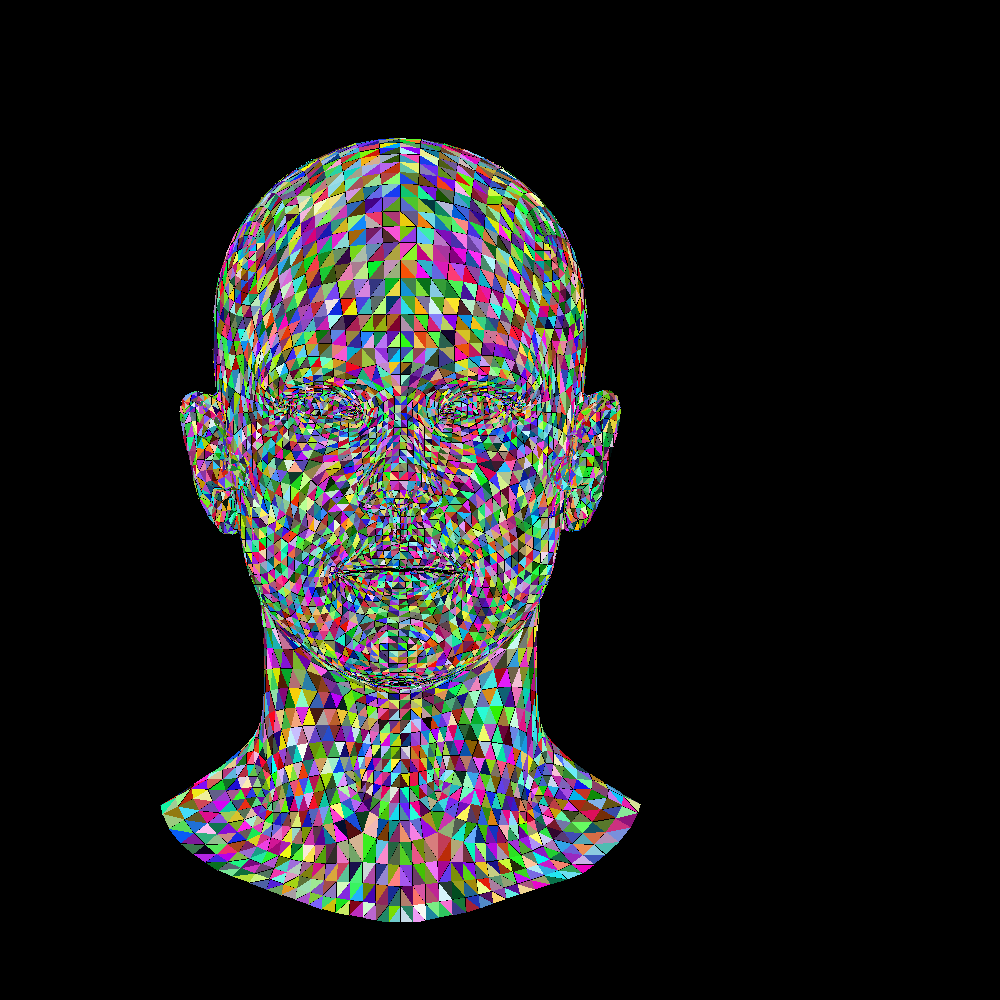
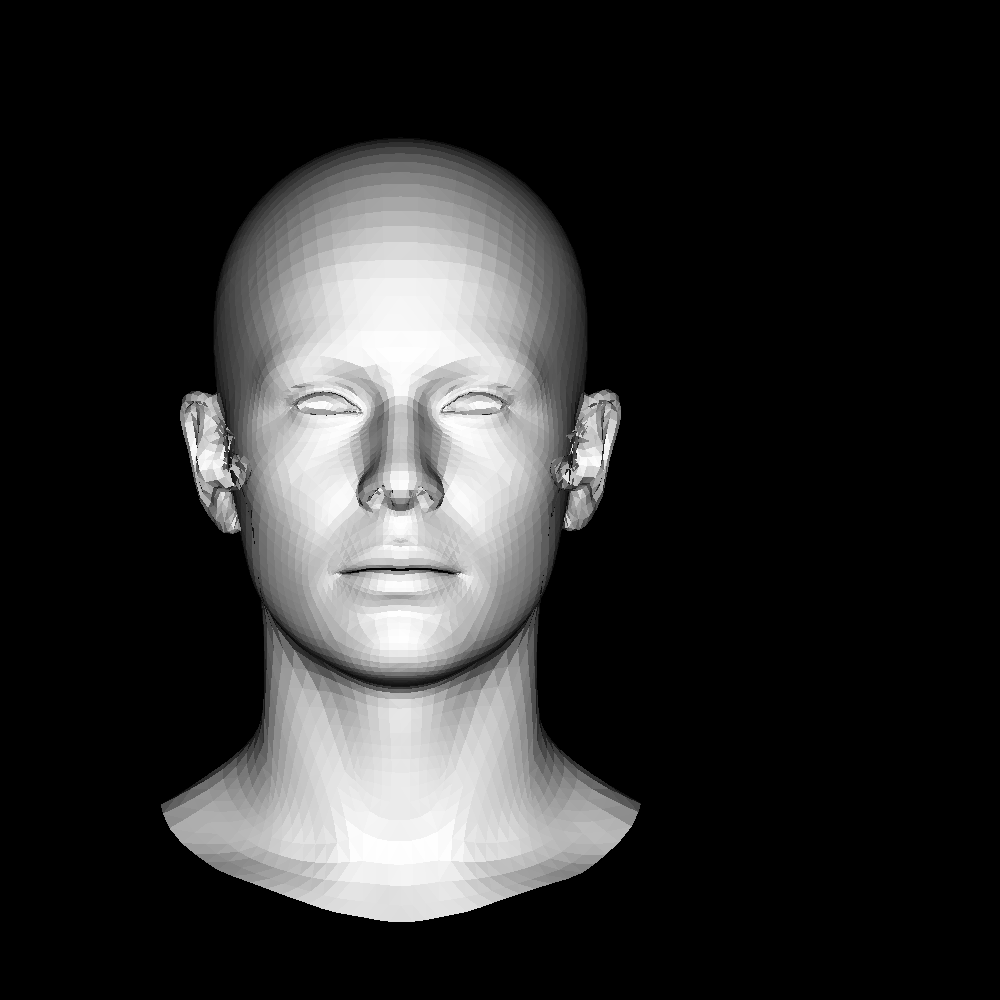
Enhance Vec3 operations and optimize model rendering with improved performance metrics - Fix Normalization - Intensity map

Changed region(s): [[0.155, 0.124, 0.651, 0.93]]

diff --git a/Program.cs b/Program.cs
@@ -1,39 +1,42 @@
 using SixLabors.ImageSharp;
 using SixLabors.ImageSharp.Processing;
 using SixLabors.ImageSharp.PixelFormats;
+using System.Diagnostics;
 using LoadObj;
 
-#pragma warning disable CS0219 // Mute the warning
-double times =5;
+double times = 5;
 double iTimes = 1/times;
 int wh = 1000;
 int width = wh;
 int height = wh;
+Stopwatch sw = new();
 
 using Image<Rgba32> image = new(width, height, Color.Black);
+using Image<Rgba32> image2 = new(width, height, Color.Black);
 
-// Get the height and width and we can also use size property to grab both h and w at the same time
-// int imagePercentHeight = image.Height;
-// int imagePercentWidth = image.Width;
+sw.Start();
+var (vertices, faces) = ObjLoader.Parse("Basic_prism.obj");
+var (vertices2, faces2) = ObjLoader.Parse("Basemesh.obj");
+sw.Stop();
+Console.WriteLine($"OBJ Load Time: {sw.ElapsedMilliseconds} ms");
+sw.Restart(); // Resets to 0 and starts again
 
-// Console.WriteLine($"The image height is: {imagePercentHeight} pixels.");
-// Console.WriteLine($"The image width is: {imagePercentWidth} pixels.");
-
-// image[52, 23] = Color.Red;    // assign to image
-
-
-
-var (vertices, faces) = ObjLoader.Parse("Basemesh.obj");
 Console.WriteLine(); 
 Console.WriteLine($"Vertices: {vertices.Count}, Faces: {faces.Count}");
-void line(Vec2 v0 , Vec2 v1, Image<Rgba32> image, Color color)
+
+#pragma warning disable CS8321 // Local function is declared but never used
+void outline(List<Vec2> pts, Image<Rgba32> image, Color color)
 {
-    double x0 = v0.X;
-    double y0 = v0.Y;
-    double x1 = v1.X;
-    double y1 = v1.Y;
+    double x0 = pts[0].X;
+    double y0 = pts[0].Y;
+    double x1 = pts[1].X;
+    double y1 = pts[1].Y;
+    double x2 = pts[2].X;
+    double y2 = pts[2].Y;
+
     if (x0 < 0 || x0 >= width || y0 < 0 || y0 >= height) return;
     if (x1 < 0 || x1 >= width || y1 < 0 || y1 >= height) return;
+    if (x2 < 0 || x2 >= width || y2 < 0 || y2 >= height) return;
 
     double dx = x1 - x0;
     double dy = y1 - y0;
@@ -51,18 +54,12 @@ void line(Vec2 v0 , Vec2 v1, Image<Rgba32> image, Color color)
     }
 }
 
-#pragma warning disable CS8321 // Local function is declared but never used
-static double slope(Vec2 a, Vec2 b)
-{
-    return (a.Y - b.Y) / (a.X - b.X);
-}
-
 static Vec3 Barycentric(List<Vec2> pts, Vec2 P) 
 {
     Vec3 a = new(pts[1].X - pts[0].X, pts[2].X - pts[0].X, pts[0].X - P.X);
     Vec3 b = new(pts[1].Y - pts[0].Y, pts[2].Y - pts[0].Y, pts[0].Y - P.Y);
     Vec3 cross = a ^ b; 
-    if (cross.Z < 1) return new(-1, 1, 1); // 
+    if (Math.Abs(cross.Z) < 1e-2) return new(-1, 1, 1); // 
     double k = 1 / cross.Z;
     return new(
         1 - (cross.X + cross.Y) * k,
@@ -76,57 +73,90 @@ static void triangle(List<Vec2> pts, Image<Rgba32> image, Color? color = null)
     Color chosenColor = color ?? Color.Red;
     Rgba32 finalPixelColor = chosenColor.ToPixel<Rgba32>();
 
-    Vec2 bboxMin = new(image.Width - 1, image.Height - 1);
-    Vec2 bboxMax = new(0, 0);
-    Vec2 clamp = new(image.Width - 1, image.Height - 1);
-
-    for(int i = 0; i < 3; i++)
-    {
-        bboxMin.X = Math.Max(0.0, Math.Min(pts[i].X, bboxMin.X));
-        bboxMin.Y = Math.Max(0.0, Math.Min(pts[i].Y, bboxMin.Y));
-
-        bboxMax.X = Math.Min(clamp.X, Math.Max(pts[i].X, bboxMax.X));
-        bboxMax.Y = Math.Min(clamp.Y, Math.Max(pts[i].Y, bboxMax.Y));
-    }
+    int minX = (int)Math.Max(0.0, Math.Min(pts[0].X, Math.Min(pts[1].X , pts[2].X)));
+    int minY = (int)Math.Max(0.0, Math.Min(pts[0].Y, Math.Min(pts[1].Y , pts[2].Y)));
+    int maxX = (int)Math.Min((double)image.Width - 1, Math.Max(pts[0].X + 1, Math.Max(pts[1].X , pts[2].X)));
+    int maxY = (int)Math.Min((double)image.Height - 1, Math.Max(pts[0].Y + 1, Math.Max(pts[1].Y , pts[2].Y)));
 
     Vec2 P = new();
-    for (P.X = bboxMin.X; P.X <= bboxMax.X; P.X++)
+    for (int x = minX; x <= maxX; x++)
     {
-        for (P.Y = bboxMin.Y; P.Y <= bboxMax.Y; P.Y++)
+        for (int y = minY; y <= maxY; y++)
         {
+            P.X = x;
+            P.Y = y;
             Vec3 screen = Barycentric(pts, P);
             if (screen.X < 0 || screen.Y < 0 || screen.Z < 0) continue;
-            image[(int)P.X, (int)P.Y] = finalPixelColor;
+            image[x, y] = finalPixelColor;
         }
     }
 }
 
-List<Vec2> faceFormation = [];
-Random random = new();
-
-foreach(var face in faces)
+void drawModel(List<Vec3> vertices, List<int[]> faces, Image<Rgba32> image, double intensity_m = 1.0)
 {
-    for(int i = 0; i < 3; i++)
+    List<Vec2> faceFormation = [];
+    Random random = new();
+    Vec3 light_direction = new(0, 0, -1);
+    light_direction = light_direction.Normalize();
+
+    foreach(var face in faces)
     {
-        var vert = vertices[face[i]];
-        faceFormation.Add(new(
-            (vert.X + 2) * width * iTimes, 
-            (vert.Y + 2) * height* iTimes 
+        List<Vec3> world_coord = [];
+        for(int i = 0; i < 3; i++)
+        {
+            var vert = vertices[face[i]];
+            faceFormation.Add(new(
+                (vert.X + 2) * width * iTimes, 
+                (vert.Y + 2) * height* iTimes 
+                ));
+            world_coord.Add(vert);
+        }
+
+        Vec3 n = (world_coord[2] - world_coord[0]) ^ (world_coord[1] - world_coord[0]);
+        n = n.Normalize();
+
+        double intensity = Vec3.Dot(n, light_direction);
+
+        if (intensity > 0)
+        {
+            triangle(faceFormation, image, Color.FromRgba(
+                (byte)(intensity * 255), 
+                (byte)(intensity * 255),
+                (byte)(intensity * 255),
+                255
             ));
+        }
+
+        faceFormation.Clear();    
     }
-
-    triangle(faceFormation, image, Color.FromRgba(
-        (byte)random.Next(0, 256), 
-        (byte)random.Next(0, 256), 
-        (byte)random.Next(0, 256), 
-        255
-    ));
-
-    // foreach (var x in faceFormation) Console.WriteLine($"{x.X}  {x.Y}");
-    // Console.WriteLine();
-
-    faceFormation.Clear();    
 }
 
+// ----------------------------------------------------------------------------------------------------//
+
+
+sw.Stop();
+Console.WriteLine($"Other Time: {sw.ElapsedMilliseconds} ms");
+
+sw.Restart();
+
+drawModel(vertices, faces, image);
+sw.Stop();
+Console.WriteLine($"Model 1 Rendering Time: {sw.ElapsedMilliseconds} ms");
+
+sw.Restart(); // Resets to 0 and starts again
+
+drawModel(vertices2, faces2, image2, 100);
+
+sw.Stop();
+Console.WriteLine($"Model 2 Rendering Time: {sw.ElapsedMilliseconds} ms");
+
+sw.Restart(); // Resets to 0 and starts again
+
 image.Mutate(x => x.Flip(FlipMode.Vertical)); 
-image.Save("output2.png");
+image.Save("output.png");
+
+image2.Mutate(x => x.Flip(FlipMode.Vertical)); 
+image2.Save("output2.png");
+
+sw.Stop();
+Console.WriteLine($"Image Saving Time: {sw.ElapsedMilliseconds} ms");

diff --git a/LoadObj.cs b/LoadObj.cs
@@ -21,14 +21,27 @@ namespace LoadObj
         }
 
         public static Vec3 operator ^(Vec3 a, Vec3 b) => Cross(a, b);
+        public static Vec3 operator *(Vec3 a, double b) => new(a.X * b, a.Y * b, a.Z * b);
+        public static Vec3 operator -(Vec3 a, Vec3 b) => new(a.X - b.X, a.Y - b.Y, a.Z - b.Z);
 
         public static double Dot(Vec3 a, Vec3 b)
         {
             return a.X * b.X + a.Y * b.Y + a.Z * b.Z;
         }
 
-        public static Vec3 operator *(Vec3 a, double b) => new(a.X * b, a.Y * b, a.Z * b);
+        public readonly double Length()
+        {
+            return Math.Sqrt(X * X + Y * Y + Z * Z);
+        }
 
+        // returns unit vector
+        public readonly Vec3 Normalize() 
+        {
+            double ilength = 1 / Length();
+
+            if (ilength == 0) return new(0, 0, 0);
+            return new(X * ilength, Y * ilength, Z * ilength);
+        }
         public override readonly string ToString() => $"({X}, {Y}, {Z})";
     }
 
@@ -36,6 +49,8 @@ namespace LoadObj
     {
         public double X = x;
         public double Y = y;
+
+        public override readonly string ToString() => $"({X}, {Y})";
     }
 
     public class ObjLoader